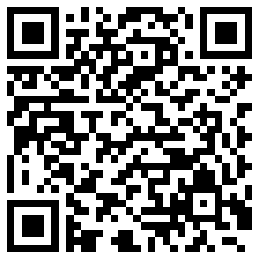
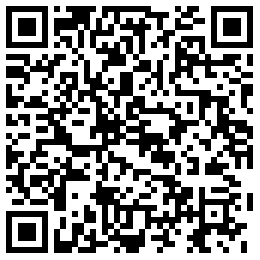
Replaced download links on the app and desktop

diff --git a/src/pages/download/index.js b/src/pages/download/index.js
@@ -16,9 +16,9 @@ const downloadDesk = (key, e) => {
   let downloadUrl = '';
   let baseUrl = 'https://yingliboke.oss-cn-shenzhen.aliyuncs.com/app/';
   if (key === 'win') {
-    downloadUrl = baseUrl + '英荔播课%20Setup%201.2.0.exe';
+    downloadUrl = baseUrl + '英荔播课%20Setup%202.1.1.exe';
   } else if (key === 'mac') {
-    downloadUrl = baseUrl + 'www英荔播课-1.2.0.dmg';
+    downloadUrl = baseUrl + 'www英荔播课-2.1.1.dmg';
   }
   // 创建a标签，触发点击
   const a = document.createElement('a');
@@ -54,7 +54,7 @@ function Download() {
                   <small
                     onClick={() =>
                       download(
-                        'https://a.app.qq.com/o/simple.jsp?pkgname=com.eliteu.yingliboke',
+                        'https://yingliboke.oss-cn-shenzhen.aliyuncs.com/android/www%E8%8B%B1%E8%8D%94%E6%92%AD%E8%AF%BE2.1.1-03-20_1517_211_jiagu_sign.apk',
                       )
                     }>
                     点击或扫描二维码下载
